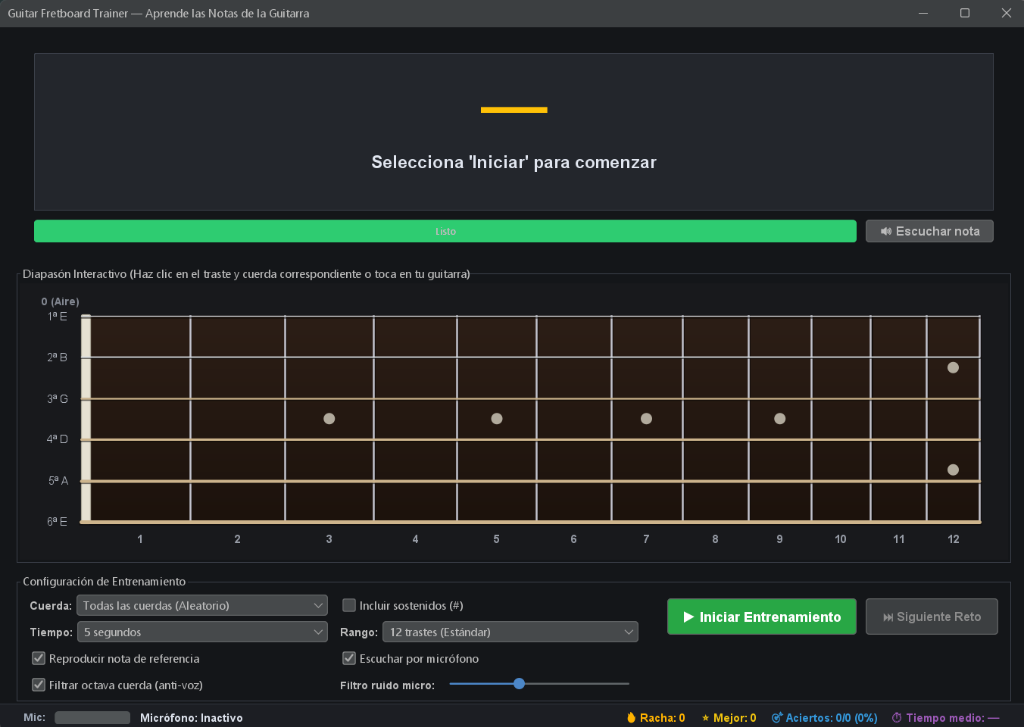
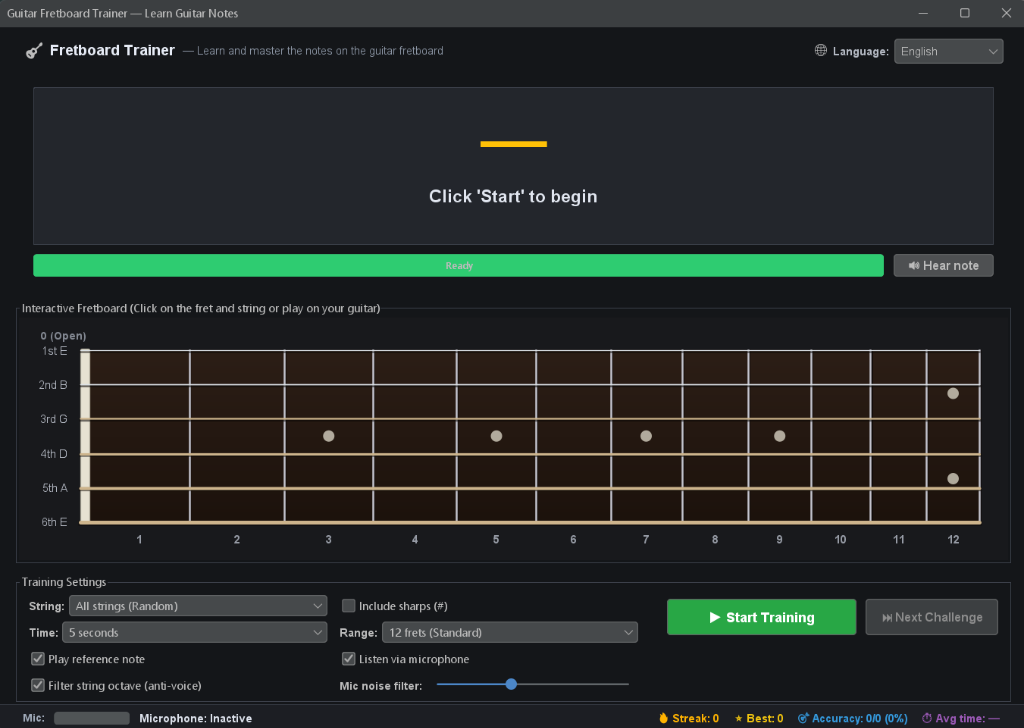
docs(readme): update preview screenshot to English UI and highlight dual language support (ES/EN)

diff --git a/README.md b/README.md
@@ -17,6 +17,7 @@
 <br/>
 
 [![Version](https://img.shields.io/badge/Release-v1.0.0-orange?style=flat-square)](https://github.com/Gaboxondo/Fretboard--rainer)
+[![i18n](https://img.shields.io/badge/i18n-Espa%C3%B1ol_%7C_English-0984e3?style=flat-square)](https://github.com/Gaboxondo/Fretboard--rainer)
 [![Audio](https://img.shields.io/badge/Audio-44.1kHz_16--bit_Mono-blueviolet?style=flat-square)](https://github.com/Gaboxondo/Fretboard--rainer)
 [![Latency](https://img.shields.io/badge/Latency-%3C20ms_Buffer-emerald?style=flat-square)](https://github.com/Gaboxondo/Fretboard--rainer)
 [![Platform](https://img.shields.io/badge/Platform-Windows_|_macOS_|_Linux-lightgrey?style=flat-square)](https://github.com/Gaboxondo/Fretboard--rainer)
@@ -37,14 +38,14 @@
 <br/>
 
 <div id="interface-preview">
-  <img src="docs/assets/screenshot.png" alt="Guitar Fretboard Trainer Interface" width="100%" style="border-radius: 10px; border: 1px solid #30363d; box-shadow: 0 10px 30px rgba(0,0,0,0.5);" />
+  <img src="docs/assets/screenshot.png" alt="Guitar Fretboard Trainer Interface (English)" width="100%" style="border-radius: 10px; border: 1px solid #30363d; box-shadow: 0 10px 30px rgba(0,0,0,0.5);" />
 </div>
 
 <br/>
 
-| 🎸 6-String Diapason | 🎯 Real-Time Pitch DSP | ⚡ Sub-20ms Audio Engine | 🏆 Gamified Streaks | 🎨 Dark Modern GUI |
+| 🎸 6-String Diapason | 🎯 Real-Time Pitch DSP | 🌐 Dual Language (ES/EN) | 🏆 Gamified Streaks | 🎨 Dark Modern GUI |
 | :---: | :---: | :---: | :---: | :---: |
-| Proportional string gauges & frets | YIN autocorrelation algorithm | Continuous PCM microphone capture | Live score, streaks & reaction timer | Sleek FlatLaf Dark theme |
+| Proportional string gauges & frets | YIN autocorrelation algorithm | Built-in Spanish & English selector | Live score, streaks & reaction timer | Sleek FlatLaf Dark theme |
 
 </div>
 
@@ -55,6 +56,8 @@
 
 ### 💡 What is Guitar Fretboard Trainer?
 **Guitar Fretboard Trainer** is a high-performance desktop application engineered with **Java 21**, **Swing (FlatLaf Dark)**, and real-time **DSP (Digital Signal Processing)**. It helps guitarists of all levels achieve instantaneous fretboard recall through randomized challenges and pitch detection with their actual physical instrument.
+
+> **🌐 Multi-Language Ready**: Available out-of-the-box in two languages — **Spanish (Español)** and **English**. Switch between languages instantly with the top-bar dropdown without restarting.
 
 Inspired by proven fretboard learning methodologies like [FaChords Guitar Fretboard Notes](https://www.fachords.com/guitar-fretboard-notes/), it pairs audio pitch analysis with an interactive visual fretboard to bridge the gap between theory and muscle memory.
 
@@ -201,12 +204,14 @@ Alternatively, on Windows double-click **`run.bat`** or execute **`./run.ps1`**.
 ### 🎸 ¿Qué es Guitar Fretboard Trainer?
 **Guitar Fretboard Trainer** es una aplicación de escritorio desarrollada con **Java 21**, **FlatLaf Dark** y procesamiento digital de señales de audio en tiempo real (**DSP**). Su propósito es entrenar y acelerar la memorización visual y auditiva de las notas en el mástil de la guitarra.
 
+> **🌐 Disponible en Dos Idiomas**: La interfaz se encuentra disponible en **Español** e **Inglés**. Permite alternar de idioma al instante desde el selector desplegable de la barra superior sin reiniciar.
+
 Permite responder de dos formas complementarias:
 1. **Tocando tu guitarra real**: El micrófono capta la señal de audio y el algoritmo **YIN** reconoce la nota al instante.
 2. **Haciendo clic en el diapasón interactivo**: Marca el traste y cuerda correspondiente directamente en pantalla.
 
 ### 📋 Características Principales
-- 🌐 **Soporte Multiidioma (i18n)**: Selector integrado en la barra superior para alternar en caliente entre Español e Inglés sin reiniciar la app.
+- 🌐 **Soporte Multiidioma (i18n)**: Totalmente disponible en dos idiomas (**Español e Inglés**). Selector integrado en la barra superior para alternar en caliente sin reiniciar la app.
 - 🎧 **Detección de tono por micrófono**: Análisis de frecuencia fundamental en tiempo real con filtrado de ruido y octavas.
 - 🎨 **Diapasón interactivo detallado**: Cuerdas con grosor calibrado, cejuela, trastes proporcionales e inlays dobles en el traste 12.
 - 🔊 **Audio de referencia sintético**: Generación de onda con armónicos acústicos para entrenar el oído.
